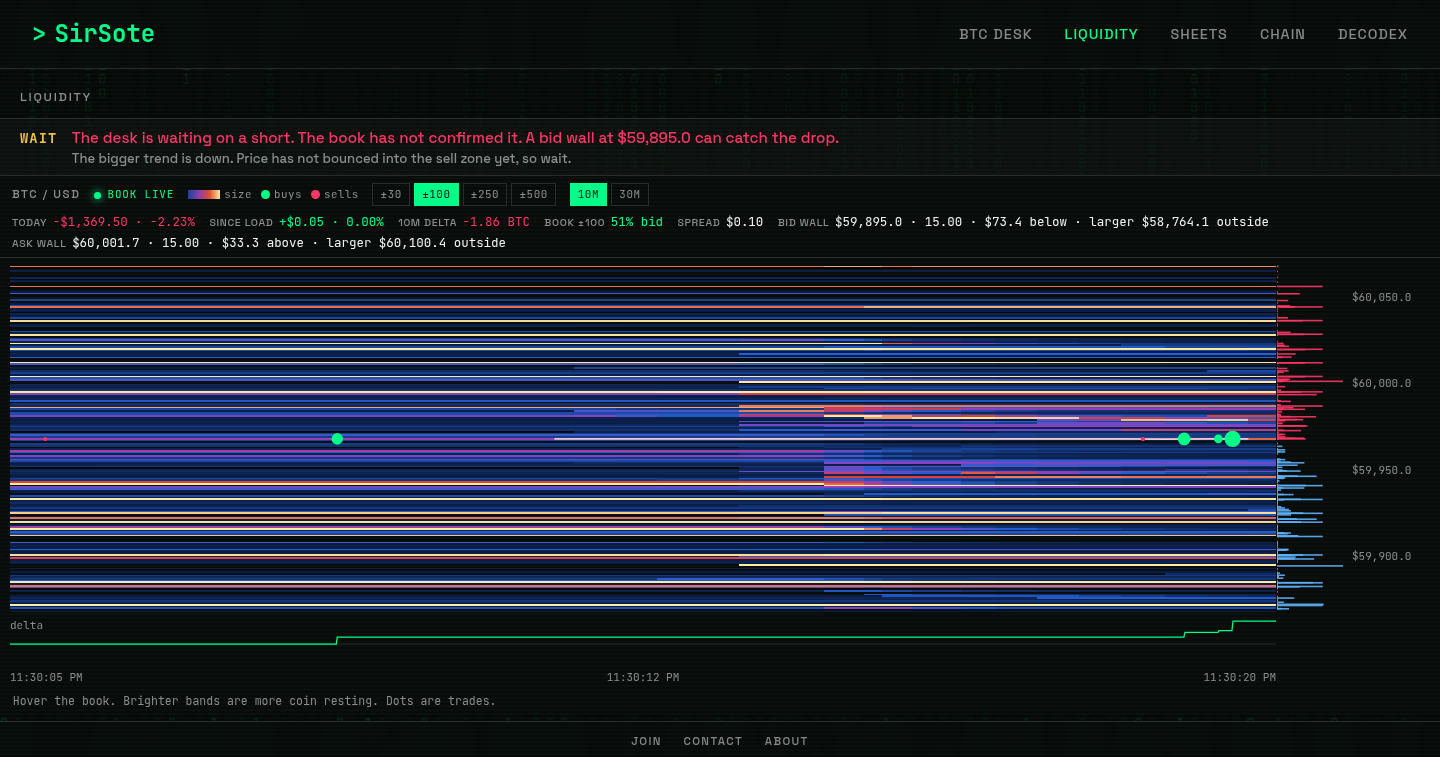
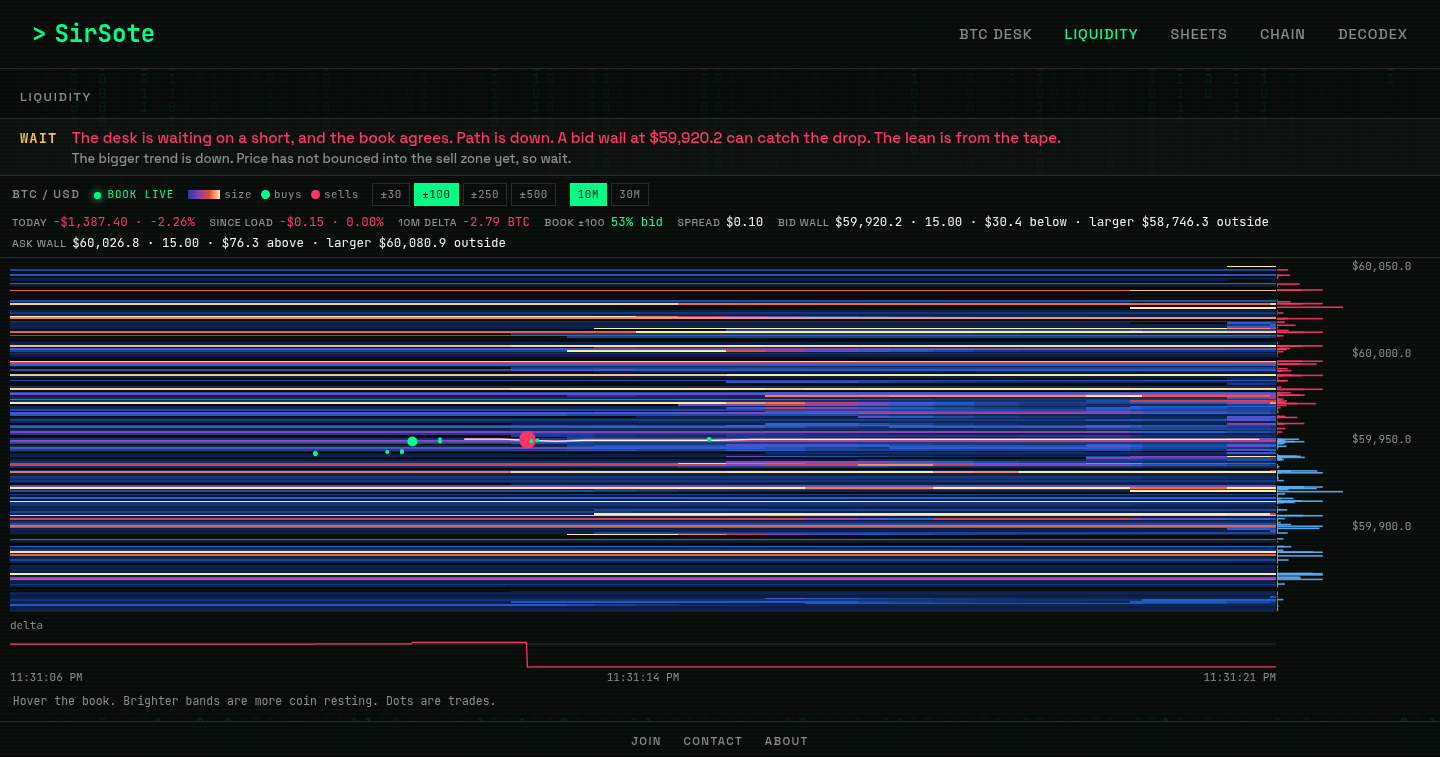
Update the sheet.

diff --git a/p/sheets/index.html b/p/sheets/index.html
@@ -36,7 +36,7 @@
             <div><dt>Swing</dt><dd><span class="call short">SHORT</span></dd></div>
             <div><dt>Hold</dt><dd><span class="call short">SHORT</span></dd></div>
         </dl>
-        
+        <p class="why">Book <span class="call long">agrees</span></p>
         
         <p class="why">The bigger trend is down. Price has not bounced into the sell zone yet, so wait.</p>
         
